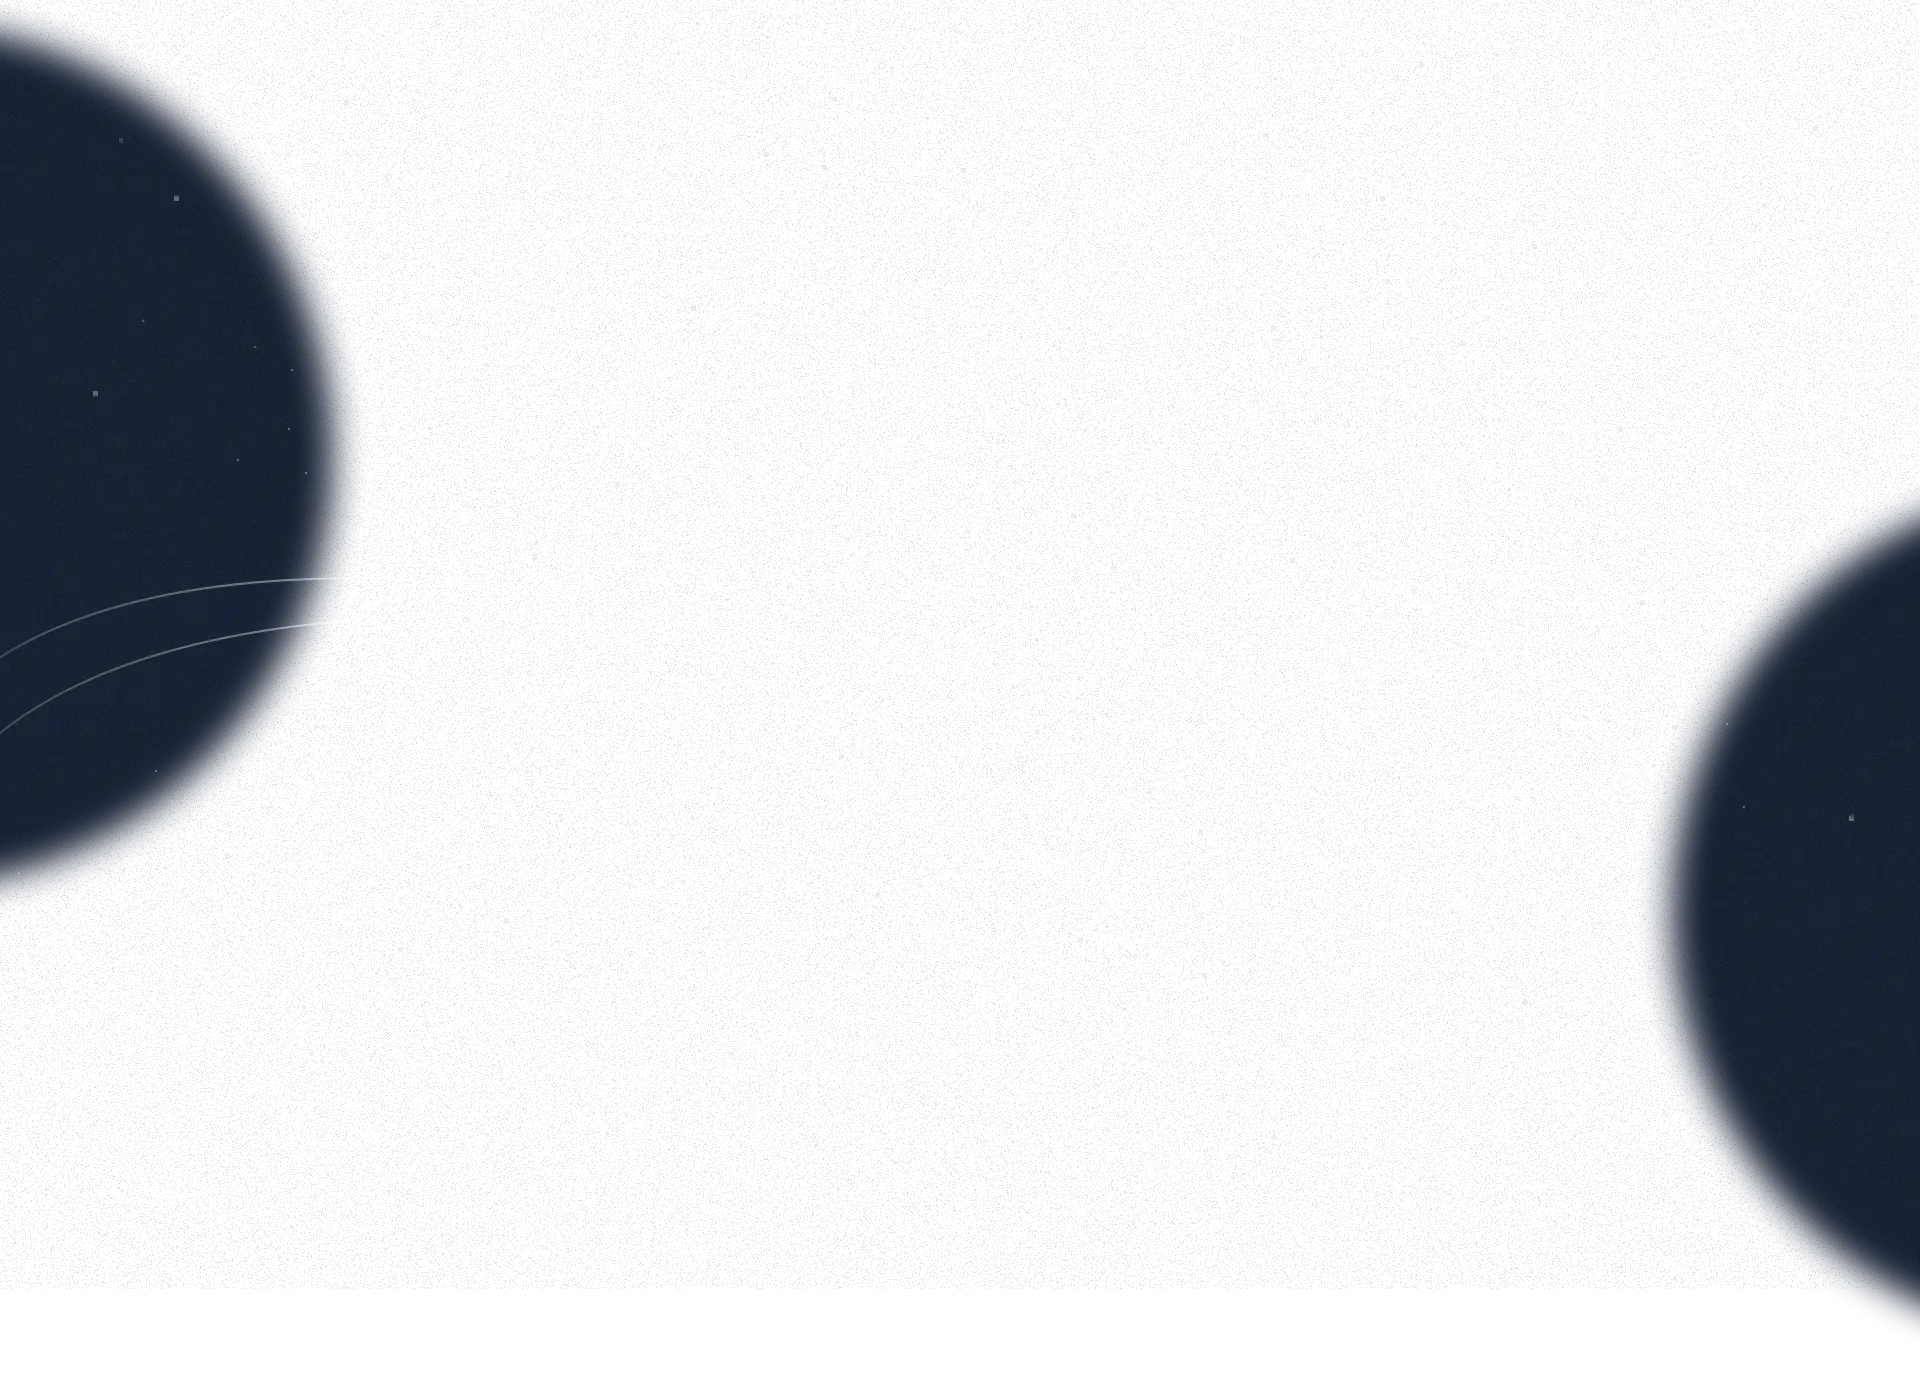
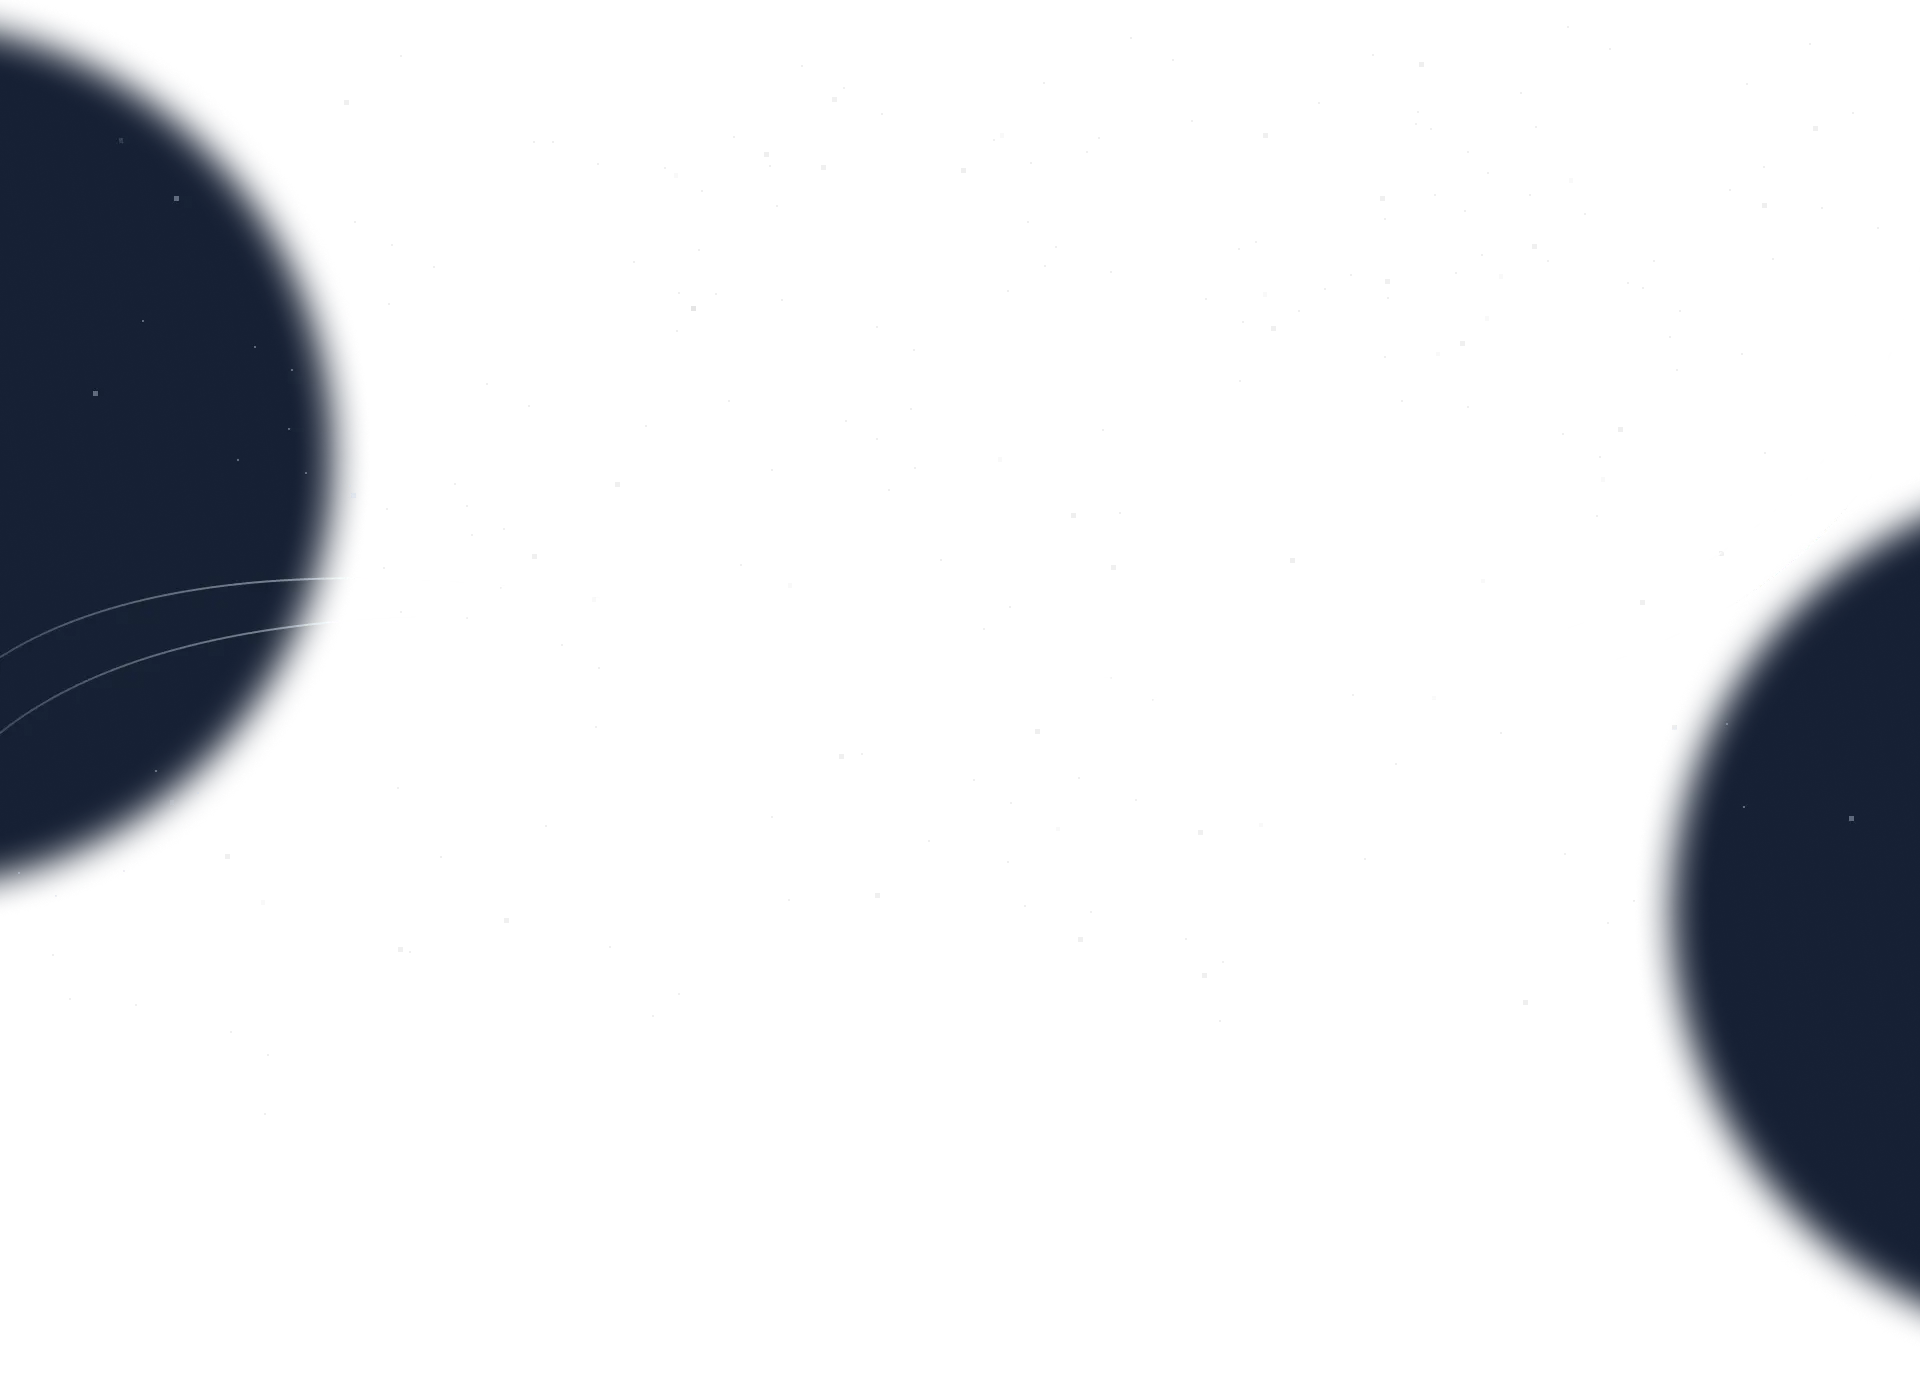
добавляет стили

diff --git a/css/main.css b/css/main.css
@@ -3761,6 +3761,8 @@ button.swiper-pagination-bullet{
   background-image: url('../src/img/bg/bg-vidoe-section.webp');
   background-repeat: no-repeat;
   background-size: cover;
+  position: relative;
+  z-index: 1;
 }
 
 .healing-video__title {
@@ -5748,26 +5750,6 @@ body::-webkit-scrollbar-thumb {
 }
 
 /* background ========================*/
-
-.space-background {
-  /* background-color: var(--dark-blue);
-    background-image: url('../src/img/bg-space.webp');
-    background-repeat: no-repeat;
-    position: relative; */
-}
-
-.space-background-repeat {
-  /* background-color: var(--dark-blue);
-    background-image: url('../src/img/bg-space.webp');
-    position: relative; */
-}
-
-.space-background-re {
-  /* background-color: var(--dark-blue);
-    background-image: url('../src/img/bg-space.webp');
-    background-repeat: no-repeat;
-    position: relative; */
-}
 
 .space-tooth-background {
   background-image: url('../src/img/bg.webp');

diff --git a/src/input.css b/src/input.css
@@ -212,25 +212,7 @@ body::-webkit-scrollbar-thumb {
 
 /* background ========================*/
 
-.space-background {
-    /* background-color: var(--dark-blue);
-    background-image: url('../src/img/bg-space.webp');
-    background-repeat: no-repeat;
-    position: relative; */
-}
 
-.space-background-repeat {
-    /* background-color: var(--dark-blue);
-    background-image: url('../src/img/bg-space.webp');
-    position: relative; */
-}
-
-.space-background-re {
-    /* background-color: var(--dark-blue);
-    background-image: url('../src/img/bg-space.webp');
-    background-repeat: no-repeat;
-    position: relative; */
-}
 
 .space-tooth-background {
     background-image: url('../src/img/bg.webp');

diff --git a/vinir.html b/vinir.html
@@ -87,9 +87,11 @@
 
     </header>
     <h1 class="visually-hidden">Гелиодент - Виниры E&nbsp;-&nbsp;MAX </h1>
-    <img class="product-main-bg" src="./src/img/bg/bg-product.webp" width="100%" height="100%">
+    <div class="bg-wrapper overflow-hidden">
+        <img src="./src/img/pixel.png">
+    </div>
 
-    <section class="product-hero-4">
+    <section class="product-hero-4 space-tooth-background">
         <div class="container relative z-[1]">
             <div class="product-hero-4__wrapper">
                 <div>

diff --git a/narkos.html b/narkos.html
@@ -87,9 +87,12 @@
 
     </header>
     <h1 class="visually-hidden">Гелиодент - Наркоз </h1>
-    <img class="product-main-bg" src="./src/img/bg/bg-product.webp" width="100%" height="100%">
 
-    <section class="product-hero-4">
+    <div class="bg-wrapper overflow-hidden">
+        <img src="./src/img/pixel.png">
+    </div>
+    
+    <section class="product-hero-4 space-tooth-background">
         <div class="container relative z-[1]">
             <div class="product-hero-4__wrapper">
                 <div>

diff --git a/product-2.html b/product-2.html
@@ -87,7 +87,11 @@
     </header>
     <h1 class="visually-hidden">Гелиодент - Лечение зубов </h1>
 
-    <section class="product-healing space-tooth-background">
+    <div class="bg-wrapper overflow-hidden">
+        <img src="./src/img/pixel.png">
+    </div>
+
+    <section class="product-healing">
         <div class="container">
             <div class="product-healing__inner product-healing__inner--desktop">
                 <h2 class="product-healing__title">лечение</h2>

diff --git a/otbelivanie.html b/otbelivanie.html
@@ -87,7 +87,11 @@
     </header>
     <h1 class="visually-hidden">Гелиодент - отбеливание и гигиена </h1>
 
-    <section class="product-hero-2">
+    <div class="bg-wrapper overflow-hidden">
+        <img src="./src/img/pixel.png">
+    </div>
+
+    <section class="product-hero-2 space-tooth-background">
         <div class="container">
             <div class="product-hero-2__wrapper">
                 <div>

diff --git a/prices.html b/prices.html
@@ -86,7 +86,9 @@
 
     </header>
     <h1 class="visually-hidden">Гелиодент - Цены на услуги</h1>
-    <img class="product-main-bg" src="./src/img/bg/bg-product.webp" width="100%" height="100%">
+    <div class="bg-wrapper overflow-hidden">
+        <img src="./src/img/pixel.png">
+    </div>
 
     <section class="prices">
         <div class="container">

diff --git a/lechenie.html b/lechenie.html
@@ -87,6 +87,10 @@
     </header>
     <h1 class="visually-hidden">Гелиодент - Лечение зуба </h1>
 
+    <div class="bg-wrapper overflow-hidden">
+        <img src="./src/img/pixel.png">
+    </div>
+
     <section class="healing-video">
         <div class="container">
             <h2 class="healing-video__title text-center">Лечение зуба</h2>

diff --git a/src/block/healing-video.css b/src/block/healing-video.css
@@ -6,6 +6,9 @@
     background-image: url('../src/img/bg/bg-vidoe-section.webp');
     background-repeat: no-repeat;
     background-size: cover;
+
+    position: relative;
+    z-index: 1;
 }
 
 .healing-video__title {
